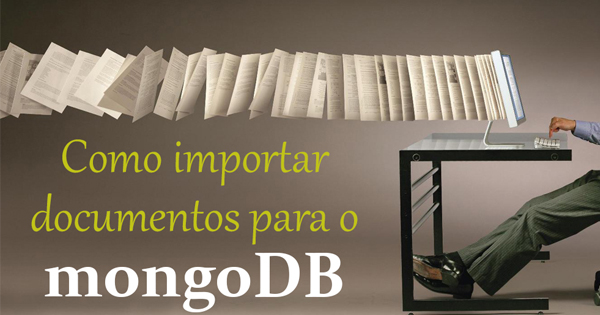
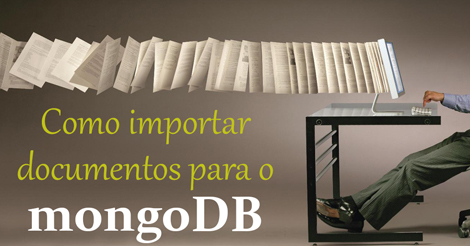
Facebook

diff --git a/Gruntfile.js b/Gruntfile.js
@@ -59,6 +59,22 @@ module.exports = function (grunt) {
                     cwd: '',
                     dest: 'media/compressed/thumbs/'
                 }]
+            },
+            opengraph: {
+                options: {
+                    sizes: [{
+                        width: 470,
+                        height: 246,
+                        aspectRatio: true,
+                    }]
+                },
+                files: [{
+                    expand: true,
+                    flatten: true,
+                    src: ['media/compressed/posts/opengraph/*.{jpg,gif,png}'],
+                    cwd: '',
+                    dest: 'media/compressed/opengraph/'
+                }]
             }
         },
 

diff --git a/_includes/open-graph.html b/_includes/open-graph.html
@@ -19,7 +19,14 @@
 	{% endif %}
 	<meta property="og:url" content="{{ page.url | replace:'index.html','' | prepend: site.url }}">
 	<meta property="og:site_name" content="{{ site.title }}">
+	{% if page.image.opengraph %}
+	<meta property="og:image" content="{{site.url}}/{{ page.image.opengraph }}">
+	<meta property="og:image:type" content="image/jpg">
+	<meta property="og:image:width" content="200">
+	<meta property="og:image:height" content="200">
+	{% else %}
 	<meta property="og:image" content="{{site.url}}{{ site.logo }}">
 	<meta property="og:image:type" content="image/jpg">
 	<meta property="og:image:width" content="200">
 	<meta property="og:image:height" content="200">
+	{% endif %}

diff --git a/_posts/2015-08-01-seletores-query-operadores-logicos-mongodb.md b/_posts/2015-08-01-seletores-query-operadores-logicos-mongodb.md
@@ -9,6 +9,7 @@ category: [MongoDB]
 image:
   teaser: "media/compressed/thumbs/2015-08-01-450x250.jpg"
   feature: "media/compressed/posts/thumbs/2015-08-01.jpg"
+  opengraph: "media/compressed/opengraph/2015-08-01-470x246.jpg"
 ---
 
 Continuaremos a série de artigos sobre mongoDB com a exploração de seletores de query e operadores lógicos. Para isto, utilizaremos [estes dados][dados-import] que encontrei no Github, que podem ser importados utilizando o comando **mongoimport**. Você pode relembrar como utilizá-lo no link onde explico [como importar documentos utilizando o MongoDB][link-post-importar-documentos].

diff --git a/_posts/2015-07-21-primeiras-consultas-com-mongodb.md b/_posts/2015-07-21-primeiras-consultas-com-mongodb.md
@@ -8,6 +8,7 @@ category: [MongoDB]
 image:
   teaser: "media/compressed/thumbs/2015-07-21-450x250.jpg"
   feature: "media/compressed/posts/thumbs/2015-07-21.jpg"
+  opengraph: "media/compressed/opengraph/2015-07-21-470x246.jpg"
 ---
 
 Hoje veremos como efetuar consultas com o MongoDB. Para isto, utilizaremos a database Northwind importada no artigo anterior onde aprendemos [como importar documentos para o MongoDB]({{ site.baseurl | replace: '//', '/' }}/mongodb/como-importar-documentos-para-o-mongodb).

diff --git a/_posts/2015-07-12-como-importar-documentos-para-o-mongodb.md b/_posts/2015-07-12-como-importar-documentos-para-o-mongodb.md
@@ -8,6 +8,7 @@ category: [MongoDB]
 image:
   teaser: "media/compressed/thumbs/2015-07-12-450x250.jpg"
   feature: "media/compressed/posts/thumbs/2015-07-12.jpg"
+  opengraph: "media/compressed/opengraph/2015-07-12-470x246.jpg"
 ---
 
 Hoje veremos como é simples importar documentos para o MongoDB. Para isto, encontrei neste [GitHub](https://github.com/tmcnab/northwind-mongo), um conjunto de arquivos com dados extraídos do famoso database Northwind da Microsoft.

diff --git a/_posts/2015-07-04-criando-um-servico-windows-para-o-mongodb.md b/_posts/2015-07-04-criando-um-servico-windows-para-o-mongodb.md
@@ -8,6 +8,7 @@ category: [MongoDB]
 image:
   teaser: "media/compressed/thumbs/2015-07-04-450x250.png"
   feature: "media/compressed/posts/thumbs/2015-07-04.png"
+  opengraph: "media/compressed/opengraph/2015-07-04-470x246.jpg"
 ---
 
 Podemos economizar bastante tempo ao rodar o MongoDB localmente, se tivermos um serviço do Windows dedicado exclusivamente à ele. Neste post, veremos como criar este serviço de forma simples.

diff --git a/_posts/2015-08-17-ordenando-e-limitando-documentos-com-mongodb.md b/_posts/2015-08-17-ordenando-e-limitando-documentos-com-mongodb.md
@@ -7,6 +7,7 @@ tags: [Consultas, MongoDB]
 image:
   teaser: "media/compressed/thumbs/2015-08-17-450x250.jpg"
   feature: "media/compressed/posts/thumbs/2015-08-17.jpg"
+  opengraph: "media/compressed/opengraph/2015-08-17-470x246.jpg"
 ---
 
 Neste artigo, utilizaremos os métodos de Sort e Limit do MongoDB.
